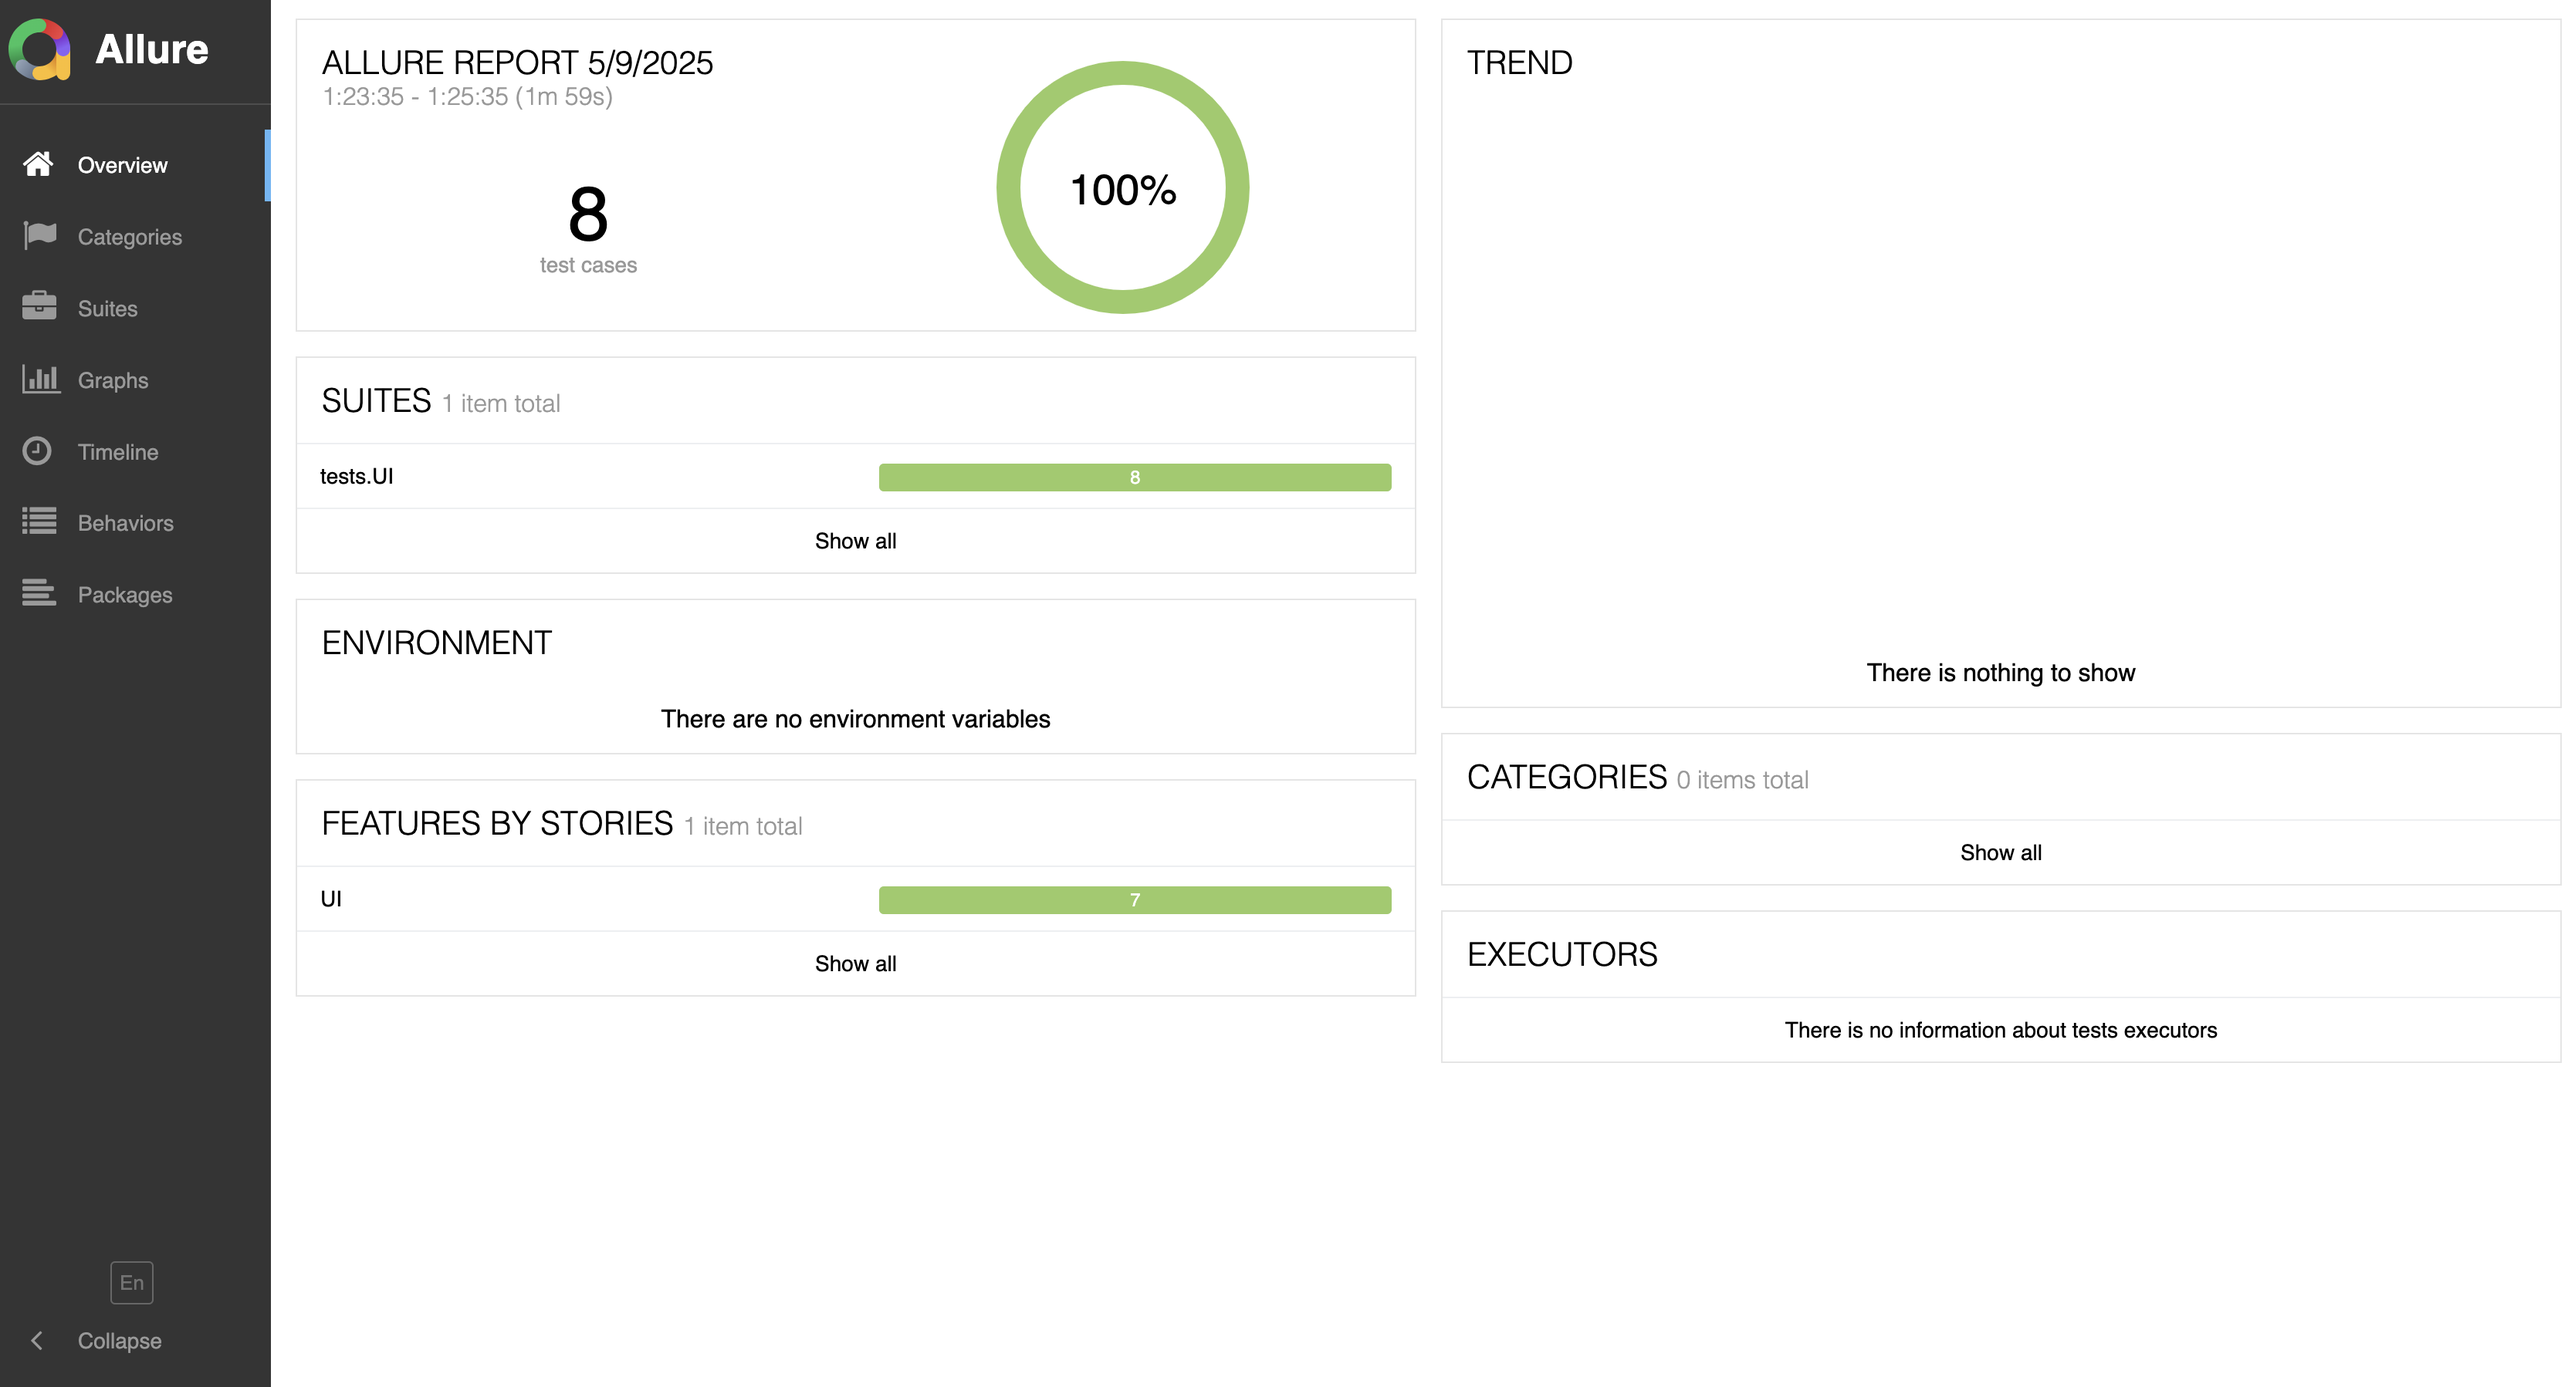
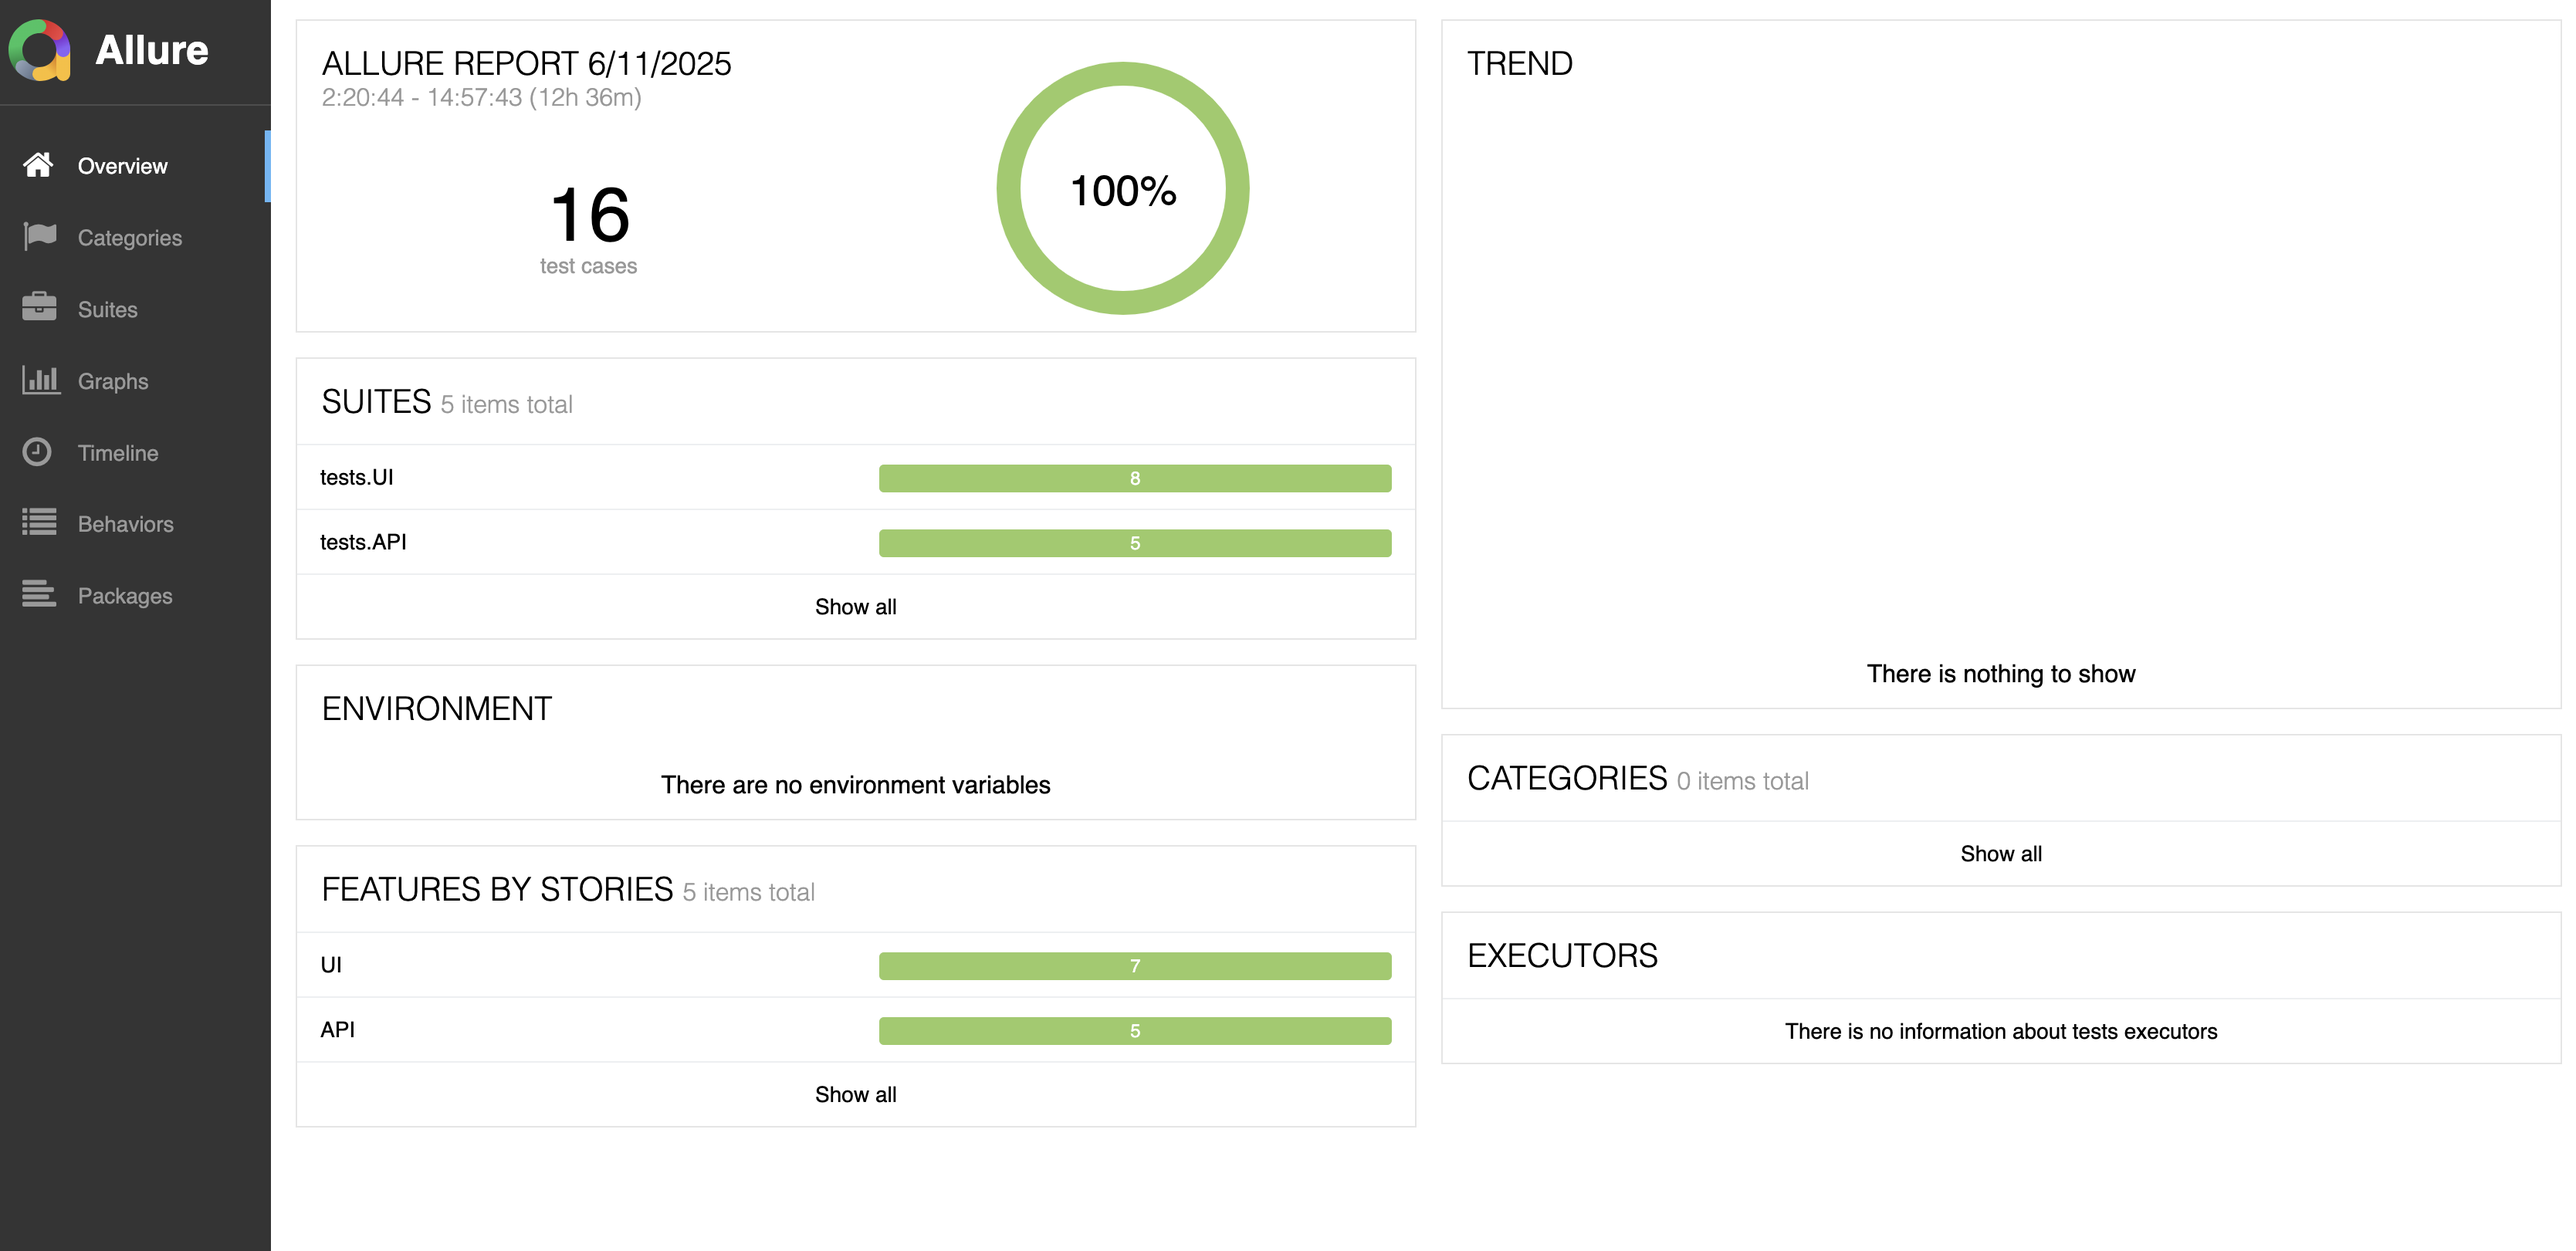
change UI tests

diff --git a/start_project/pages/main_page.py b/start_project/pages/main_page.py
@@ -7,20 +7,20 @@ import time
 
 class MainPage:
     def __init__(self):
-        self.appletv_element = s("//span[@dir='ltr'][normalize-space()='Apple TV+']")
-        self.mls_element = s("//span[@dir='ltr'][normalize-space()='MLS']")
-        self.first_element_in_apple_tv_page = s('//h2[text()="Top 10 TV Shows"]')
+        self.appletv_element = s("//a[@dir='ltr'][normalize-space()='Apple TV+']")
+        self.mls_element = s("//a[@dir='ltr'][normalize-space()='MLS']")
+        self.first_element_in_apple_tv_page = s("//span[text()='Top 10 TV Shows']")
 
         self.signin_form = s("//button[normalize-space()='Sign In']")
-        self.registration_element = s("//iframe")
+        self.registration_element = s("[data-test='accountName-input']")
 
-        self.search_button = s('#search-header-form-input-box')
+        self.search_button = s('[data-testid="search-input__text-field"]')
 
-        self.sections = ss('.typ-headline-emph')
-        self.page_title_section = s('.collection-page__title.typography-title-2-emphasized')
+        self.sections = ss('.dir-wrapper')
+        self.page_title_section = s('.dir-wrapper')
 
-        self.film_genre = '//img[contains(@alt, {genre})]'
-        self.name_title_of_all_film_genres = s('//h2[text()="Browse by Category"]')
+        self.film_genre = '//a[@aria-label="{genre}"]'
+        self.name_title_of_all_film_genres = s('//span[text()="Browse by Category"]')
 
     @allure.step('Open browser')
     def open(self):
@@ -36,6 +36,9 @@ class MainPage:
 
     @allure.step('Check registration is available')
     def check_registration_options_available(self):
+        time.sleep(6)
+        browser.driver.switch_to.frame(0)
+        time.sleep(6)
         self.registration_element.should(be.visible)
 
     @allure.step('Check AppleTV button is clickable')
@@ -58,7 +61,7 @@ class MainPage:
     @allure.step('Check search result')
     def check_result(self, film_title):
         try:
-            search_hints = browser.all('ul.search-hints li')
+            search_hints = browser.all('ul.shelf-grid__list li')
             search_hints.should(have.size_greater_than(0))
             search_hints.first.click()
         except NoSuchElementException:

diff --git a/start_project/pages/signin_form.py b/start_project/pages/signin_form.py
@@ -1,23 +1,23 @@
-from selene import be, have, browser
+from selene import be, browser
 from selene.support.shared.jquery_style import s
-from selenium.common.exceptions import NoSuchElementException, TimeoutException
 import allure
 import time
 
 
 class SignInForm:
     def __init__(self):
-        self.email_input = s("//input[@id='accountName']")
+        self.email_input = s("[data-test='accountName-input']")
         self.password_input = s("//input[@id='password_text_field']")
-        self.sliding_panel = s('.form-row.swp-account-name')
-        self.invite_to_registration = s("//h1[@class='heading typography-headline']")
-        self.invite_to_sign_in = s("//h1[@class='generic-auth-presentation__header']")
+        self.invite_to_registration = s("//input[@id='password_text_field']")
+        self.invite_to_sign_in = s("//button[@id='continue-password']")
         self.err_message1 = s("//p[@id='errMsg']")
         self.err_message2 = s("//h2[@id='alertInfo']")
 
     @allure.step('Enter email into the field')
     def enter_email(self, email):
-        browser.switch_to.frame(0)
+        time.sleep(6)
+        browser.driver.switch_to.frame(0)
+        time.sleep(6)
         self.email_input.should(be.visible)
         time.sleep(2)
         self.email_input.should(be.blank).type(email).press_enter()
@@ -25,7 +25,7 @@ class SignInForm:
 
     @allure.step('Enter password into the field')
     def enter_password(self, password):
-        browser.switch_to.frame(0)
+        browser.driver.switch_to.frame("aid-auth-widget-iFrame")
         time.sleep(6)
         self.password_input.should(be.visible)
         time.sleep(2)

diff --git a/tests/mobile/test_search_film_by_name.py b/tests/mobile/test_search_film_by_name.py
@@ -1,0 +1,17 @@
+# import allure
+# from allure_commons.types import Severity
+# from okko_tests.pages.mobile.main_page import main_page
+# from okko_tests.pages.mobile.catalogue_page import catalogue
+#
+#
+# @allure.tag('UI Mobile')
+# @allure.feature('Mobile')
+# @allure.story('Search film from catalogue')
+# @allure.title('Search film by title')
+# @allure.severity(Severity.CRITICAL)
+# @allure.link('https://tv.apple.com/', name='AppleTV')
+# def test_search_film_by_title():
+#     film_tile = 'the gorge'
+#     main_page.go_to_catalogue()
+#     catalogue.search_film(film_tile)
+#     catalogue.check_result(film_tile)

diff --git a/tests/UI/conftest.py b/tests/UI/conftest.py
@@ -17,7 +17,7 @@ def manage_browser(request):
     options = ChromeOptions()
     driver_class = webdriver.Chrome
     browser.config.driver = driver_class(options=options)
-    browser.config.base_url = "https://tv.apple.com/"
+    browser.config.base_url = "https://tv.apple.com"
     browser.config.window_width = 1700
     browser.config.window_height = 1080
     browser.config.timeout = 30

diff --git a/tests/API/test_top_ten_movies.py b/tests/API/test_top_ten_movies.py
@@ -4,6 +4,9 @@ from start_project.shemas.top_ten_movies_shema import movies
 from start_project.utils.api_helper import api_request
 
 
+@allure.tag('API')
+@allure.feature('API')
+@allure.story('Top 10 movies')
 @allure.title("Checking top 10 movies")
 def test_top_ten_movies_api(base_api_url):
     endpoint = "/api/uts/v3/shelves/uts.col.ChartsMovies.tvs.sbd.4000"

diff --git a/tests/UI/test_main_page.py b/tests/UI/test_main_page.py
@@ -66,7 +66,7 @@ class TestMainPage:
     @allure.severity(Severity.NORMAL)
     @allure.link('https://tv.apple.com/', name='AppleTV')
     def test_select_film_by_genre(self):
-        film_genre = 'Sci-fi'
+        film_genre = 'Sci-Fi'
         main_page.open()
         main_page.check_title_genres_name()
         main_page.go_to_selected_films_genre(film_genre)

diff --git a/tests/API/test_trailer_data.py b/tests/API/test_trailer_data.py
@@ -4,6 +4,9 @@ from jsonschema import validate
 from start_project.shemas.trailer_shema import trailer
 
 
+@allure.tag('API')
+@allure.feature('API')
+@allure.story('Trailer movie')
 @allure.title("Checking trailer data")
 def test_trailer_api(base_api_url):
     endpoint = "/api/uts/v3/shelves/uts.col.Trailers.umc.cmc.26o403koqo2klixc0jtqy6tmc"

diff --git a/tests/API/test_search_movie_data.py b/tests/API/test_search_movie_data.py
@@ -4,6 +4,9 @@ from start_project.shemas.search_shema import search
 from start_project.utils.api_helper import api_request
 
 
+@allure.tag('API')
+@allure.feature('API')
+@allure.story('Search movie')
 @allure.title("Checking movie data")
 def test_search_movie_api(base_api_url):
     endpoint = "/api/uts/v3/search"

diff --git a/tests/API/test_switch_to_mls_button.py b/tests/API/test_switch_to_mls_button.py
@@ -2,6 +2,9 @@ import allure
 from start_project.utils.api_helper import api_request
 
 
+@allure.tag('API')
+@allure.feature('API')
+@allure.story('MLS page')
 @allure.title("Checking mls page")
 def test_switch_to_mls_api(base_api_url):
     endpoint = "/api/uts/v3/canvases/channels/tvs.sbd.7000"

diff --git a/tests/API/test_login.py b/tests/API/test_login.py
@@ -3,6 +3,9 @@ import os
 from start_project.utils.api_helper import api_request
 
 
+@allure.tag('API')
+@allure.feature('API')
+@allure.story('Auth')
 @allure.title("Check auth")
 def test_trailer_api():
     base_api_url = "https://idmsa.apple.com"

diff --git a/README.md b/README.md
@@ -1,18 +1,28 @@
 <h1>Apple TV Web Testing Project</h1>
-> <a target="_blank" href="https://tv.apple.com/">Apple TV</a>
+<a target="_blank" href="https://tv.apple.com/">Apple TV</a>
 
 ![This is an image](images/apple_tv.png)
 
 <h2> UI: </h2>
 
-Checking the functionality of the buttons  
-Checking the availability of registration options  
-Registering a user with a valid email address   
-Registering a user with an invalid email address  
-Going to the selected section of the site  
-Searching for a movie by title   
-Selecting movies by a respectful category
+* Checking the functionality of the buttons  
+* Checking the availability of registration options  
+* Registering a user with a valid email address   
+* Registering a user with an invalid email address  
+* Going to the selected section of the site  
+* Searching for a movie by title   
+* Selecting movies by a respectful category
+
+<h2> API: </h2>
+
+* Checking authorization on the site
+* Checking the site search  
+* Checking the functionality of the button MLS    
+* Going to the selected section of the site
+* Trailer launch check
 
 <h2> Allure report </h2>
 
 ![This is an image](images/allure_report.png)
+![This is an image](images/allure_suites.png)
+
